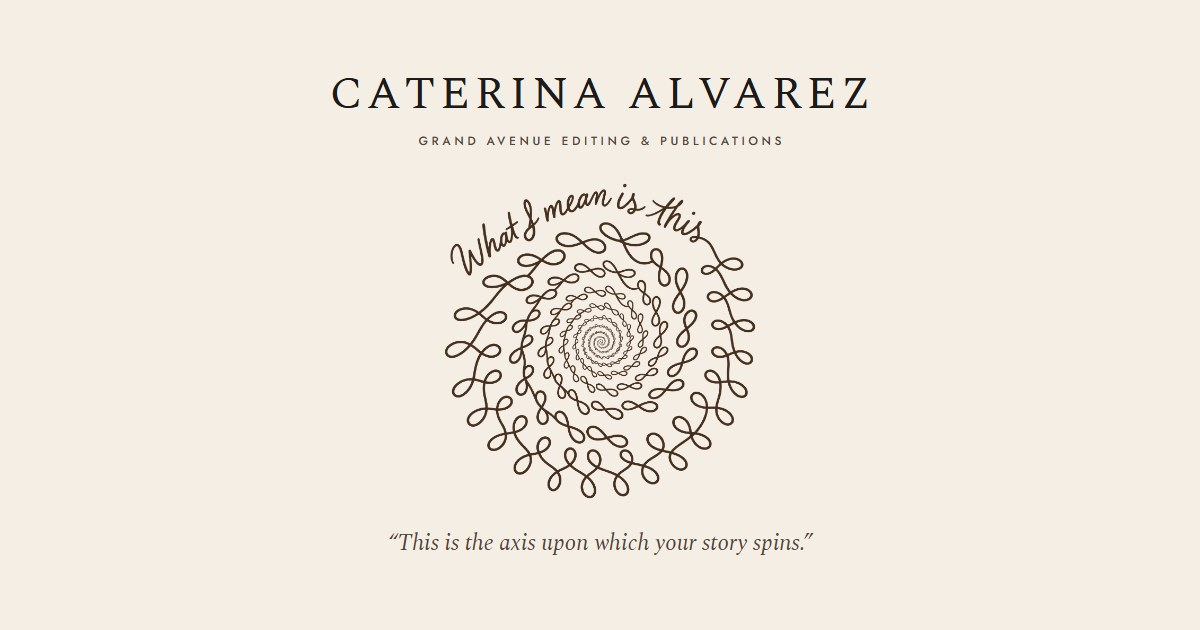
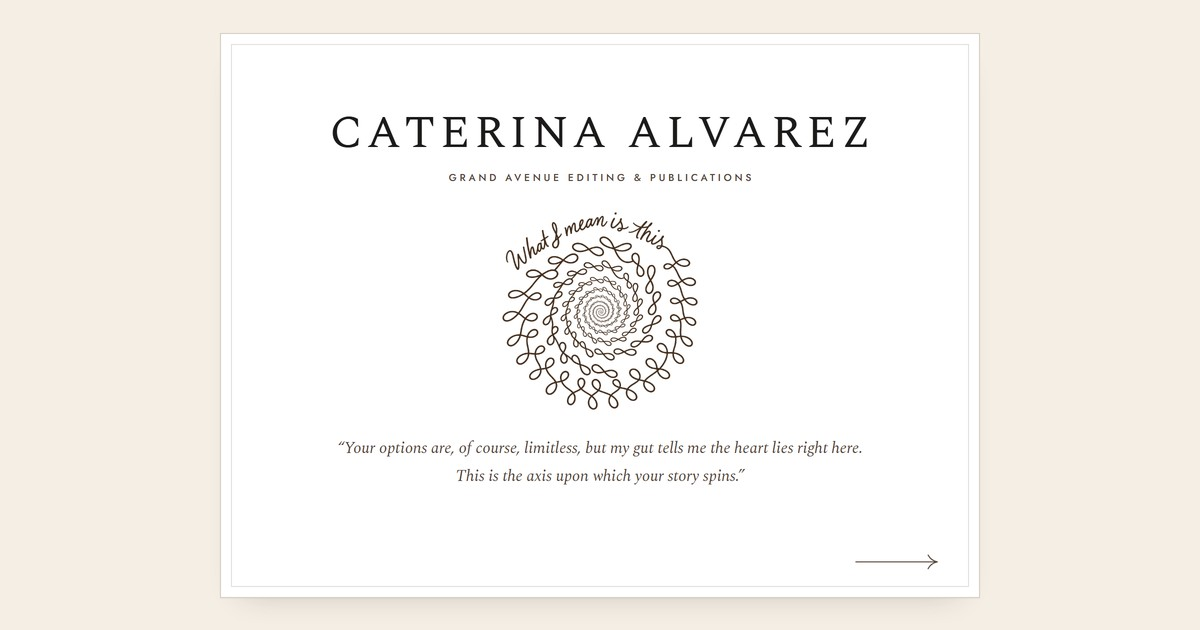
Ready to share: every picture loads at once, and a new link preview
- The link preview (when the address is pasted into a message or email)
  now shows the cover as it is: the white title page on her ivory with
  her name, the imprint, the spiral and her line
- The story pictures on Publications and the books and newsletters on
  About now load with the page instead of waiting to be scrolled to, so
  nothing appears late
- While the cover is open, the Introduction and her portrait are fetched
  quietly in the background, so the first page opens at once

diff --git a/publications.html b/publications.html
@@ -11,10 +11,10 @@
   <meta property="og:title" content="Publications · Caterina Alvarez">
   <meta property="og:description" content="A small collection of my own work, one I hope to quadruple in the coming years.">
   <meta property="og:url" content="https://caterina-alvarez.vercel.app/publications.html">
-  <meta property="og:image" content="https://caterina-alvarez.vercel.app/assets/img/og-image.jpg?v=2">
+  <meta property="og:image" content="https://caterina-alvarez.vercel.app/assets/img/og-image.jpg?v=3">
   <meta property="og:image:width" content="1200">
   <meta property="og:image:height" content="630">
-  <meta property="og:image:alt" content="Caterina Alvarez, Grand Avenue Editing &amp; Publications: her spiral drawing of linked infinity signs, the words “What I mean is this” curving over it, and the line “This is the axis upon which your story spins.”">
+  <meta property="og:image:alt" content="The cover of Caterina Alvarez’s site: a white title page on her ivory with her name, Grand Avenue Editing &amp; Publications, her spiral of linked infinity signs under the words “What I mean is this”, and her line “This is the axis upon which your story spins.”">
   <meta name="twitter:card" content="summary_large_image">
   <meta name="twitter:site" content="@caterina445">
   <meta name="theme-color" content="#fcfbf8">
@@ -111,7 +111,7 @@
       <div class="pub-gallery__track" tabindex="0" role="region" aria-labelledby="index-title" data-gallery-track>
         <ol class="pub-gallery__list">
           <li class="pub-panel pub-panel--ink" id="feature" data-gallery-panel>
-            <figure class="pub-panel__plate"><picture><source srcset="assets/img/pub-flash-boulevard.webp" type="image/webp"><img src="assets/img/pub-flash-boulevard.jpg" width="640" height="335" loading="lazy" decoding="async" alt="Flash Boulevard’s banner: its name in tall white capitals over a misty city street, a man walking away under an umbrella."></picture></figure>
+            <figure class="pub-panel__plate"><picture><source srcset="assets/img/pub-flash-boulevard.webp" type="image/webp"><img src="assets/img/pub-flash-boulevard.jpg" width="640" height="335" decoding="async" alt="Flash Boulevard’s banner: its name in tall white capitals over a misty city street, a man walking away under an umbrella."></picture></figure>
             <p class="pub-panel__honour"><svg class="pub-panel__medal" viewBox="0 0 18 22" aria-hidden="true" focusable="false"><path class="pub-panel__ribbon" d="M2.6 1h4.2l3.6 9.6H7.6zM15.4 1h-4.2l-3.6 9.6h2.8z"/><circle cx="9" cy="15.8" r="5.4"/><path class="pub-panel__star" d="M9.00 13.10L9.71 15.03L11.76 15.10L10.14 16.37L10.70 18.35L9.00 17.20L7.30 18.35L7.86 16.37L6.24 15.10L8.29 15.03Z"/></svg><span class="pub-panel__seal-name">Wigleaf</span> <span class="pub-panel__seal-rank">Top 50</span><span class="visually-hidden">,</span> <span class="pub-panel__seal-year">2023</span></p>
             <p class="pub-panel__journal"><em>Flash Boulevard</em></p>
             <div class="pub-panel__body">
@@ -123,7 +123,7 @@
             </div>
           </li>
           <li class="pub-panel pub-panel--ivory" data-gallery-panel>
-            <figure class="pub-panel__plate"><picture><source srcset="assets/img/pub-los-angeles-review.webp" type="image/webp"><img src="assets/img/pub-los-angeles-review.jpg" width="640" height="335" loading="lazy" decoding="async" alt="The picture The Los Angeles Review ran with the story: “Con gracia pa ti” in bright, many-coloured letters on black."></picture></figure>
+            <figure class="pub-panel__plate"><picture><source srcset="assets/img/pub-los-angeles-review.webp" type="image/webp"><img src="assets/img/pub-los-angeles-review.jpg" width="640" height="335" decoding="async" alt="The picture The Los Angeles Review ran with the story: “Con gracia pa ti” in bright, many-coloured letters on black."></picture></figure>
             <p class="pub-panel__journal"><em>The Los Angeles Review</em></p>
             <div class="pub-panel__body">
               <h3 class="pub-panel__title">“Photo From the Future”</h3>
@@ -134,7 +134,7 @@
             </div>
           </li>
           <li class="pub-panel pub-panel--ivory" data-gallery-panel>
-            <figure class="pub-panel__plate"><picture><source srcset="assets/img/pub-flash-fiction-magazine.webp" type="image/webp"><img src="assets/img/pub-flash-fiction-magazine.jpg" width="640" height="335" loading="lazy" decoding="async" alt="Flash Fiction Magazine’s banner: “Got 5 minutes for a story?” over an open book on a wooden table, gold lights behind."></picture></figure>
+            <figure class="pub-panel__plate"><picture><source srcset="assets/img/pub-flash-fiction-magazine.webp" type="image/webp"><img src="assets/img/pub-flash-fiction-magazine.jpg" width="640" height="335" decoding="async" alt="Flash Fiction Magazine’s banner: “Got 5 minutes for a story?” over an open book on a wooden table, gold lights behind."></picture></figure>
             <p class="pub-panel__journal"><em>Flash Fiction Magazine</em></p>
             <div class="pub-panel__body">
               <h3 class="pub-panel__title">“Underworld Muse”</h3>
@@ -145,7 +145,7 @@
             </div>
           </li>
           <li class="pub-panel pub-panel--ivory" data-gallery-panel>
-            <figure class="pub-panel__plate"><picture><source srcset="assets/img/pub-atticus-review.webp" type="image/webp"><img src="assets/img/pub-atticus-review.jpg" width="640" height="335" loading="lazy" decoding="async" alt="A flute player in sepia, eyes closed, playing in the dark."></picture></figure>
+            <figure class="pub-panel__plate"><picture><source srcset="assets/img/pub-atticus-review.webp" type="image/webp"><img src="assets/img/pub-atticus-review.jpg" width="640" height="335" decoding="async" alt="A flute player in sepia, eyes closed, playing in the dark."></picture></figure>
             <p class="pub-panel__journal"><em>The Atticus Review</em></p>
             <div class="pub-panel__body">
               <h3 class="pub-panel__title pub-panel__title--long">“In Eight Moments You Changed My Understanding”</h3>
@@ -156,7 +156,7 @@
             </div>
           </li>
           <li class="pub-panel pub-panel--ivory" data-gallery-panel>
-            <figure class="pub-panel__plate"><picture><source srcset="assets/img/pub-unpublishable.webp" type="image/webp"><img src="assets/img/pub-unpublishable.jpg" width="640" height="335" loading="lazy" decoding="async" alt="Unpublishable’s logo in typewriter letters, the “UN” in red."></picture></figure>
+            <figure class="pub-panel__plate"><picture><source srcset="assets/img/pub-unpublishable.webp" type="image/webp"><img src="assets/img/pub-unpublishable.jpg" width="640" height="335" decoding="async" alt="Unpublishable’s logo in typewriter letters, the “UN” in red."></picture></figure>
             <p class="pub-panel__journal"><em>Unpublishable</em></p>
             <div class="pub-panel__body">
               <h3 class="pub-panel__title">“Still” and “Veil”</h3>
@@ -167,7 +167,7 @@
             </div>
           </li>
           <li class="pub-panel pub-panel--ivory" data-gallery-panel>
-            <figure class="pub-panel__plate"><picture><source srcset="assets/img/pub-tiny-molecules.webp" type="image/webp"><img src="assets/img/pub-tiny-molecules.jpg" width="640" height="335" loading="lazy" decoding="async" alt="Pine trees on a hillside, fading into mist."></picture></figure>
+            <figure class="pub-panel__plate"><picture><source srcset="assets/img/pub-tiny-molecules.webp" type="image/webp"><img src="assets/img/pub-tiny-molecules.jpg" width="640" height="335" decoding="async" alt="Pine trees on a hillside, fading into mist."></picture></figure>
             <p class="pub-panel__journal"><em>Tiny Molecules</em></p>
             <div class="pub-panel__body">
               <h3 class="pub-panel__title">“Two-Sided Coin”</h3>

diff --git a/about.html b/about.html
@@ -11,10 +11,10 @@
   <meta property="og:title" content="About · Caterina Alvarez">
   <meta property="og:description" content="Senior editor at Thirty West Publishing House and priority editor for Flash Fiction Magazine.">
   <meta property="og:url" content="https://caterina-alvarez.vercel.app/about.html">
-  <meta property="og:image" content="https://caterina-alvarez.vercel.app/assets/img/og-image.jpg?v=2">
+  <meta property="og:image" content="https://caterina-alvarez.vercel.app/assets/img/og-image.jpg?v=3">
   <meta property="og:image:width" content="1200">
   <meta property="og:image:height" content="630">
-  <meta property="og:image:alt" content="Caterina Alvarez, Grand Avenue Editing &amp; Publications: her spiral drawing of linked infinity signs, the words “What I mean is this” curving over it, and the line “This is the axis upon which your story spins.”">
+  <meta property="og:image:alt" content="The cover of Caterina Alvarez’s site: a white title page on her ivory with her name, Grand Avenue Editing &amp; Publications, her spiral of linked infinity signs under the words “What I mean is this”, and her line “This is the axis upon which your story spins.”">
   <meta name="twitter:card" content="summary_large_image">
   <meta name="twitter:site" content="@caterina445">
   <meta name="theme-color" content="#fcfbf8">
@@ -124,7 +124,7 @@
             <div class="reading__volume">
               <picture>
                 <source srcset="assets/img/book-gardner-art-of-fiction.webp" type="image/webp">
-                <img src="assets/img/book-gardner-art-of-fiction.jpg" width="469" height="700" loading="lazy" decoding="async" alt="The cover of The Art of Fiction: Notes on Craft for Young Writers by John Gardner.">
+                <img src="assets/img/book-gardner-art-of-fiction.jpg" width="469" height="700" decoding="async" alt="The cover of The Art of Fiction: Notes on Craft for Young Writers by John Gardner.">
               </picture>
               <span class="reading__ribbon" aria-hidden="true"></span>
             </div>
@@ -135,7 +135,7 @@
             <div class="reading__volume">
               <picture>
                 <source srcset="assets/img/book-livesey-hidden-machinery.webp" type="image/webp">
-                <img src="assets/img/book-livesey-hidden-machinery.jpg" width="467" height="700" loading="lazy" decoding="async" alt="The cover of The Hidden Machinery: Essays on Writing by Margot Livesey.">
+                <img src="assets/img/book-livesey-hidden-machinery.jpg" width="467" height="700" decoding="async" alt="The cover of The Hidden Machinery: Essays on Writing by Margot Livesey.">
               </picture>
               <span class="reading__ribbon" aria-hidden="true"></span>
             </div>
@@ -146,7 +146,7 @@
             <div class="reading__volume">
               <picture>
                 <source srcset="assets/img/book-kardos-art-and-craft-of-fiction.webp" type="image/webp">
-                <img src="assets/img/book-kardos-art-and-craft-of-fiction.jpg" width="597" height="700" loading="lazy" decoding="async" alt="The cover of The Art and Craft of Fiction: A Writer’s Guide by Michael Kardos.">
+                <img src="assets/img/book-kardos-art-and-craft-of-fiction.jpg" width="597" height="700" decoding="async" alt="The cover of The Art and Craft of Fiction: A Writer’s Guide by Michael Kardos.">
               </picture>
               <span class="reading__ribbon" aria-hidden="true"></span>
             </div>
@@ -157,7 +157,7 @@
             <div class="reading__volume">
               <picture>
                 <source srcset="assets/img/book-saunders-swim-in-a-pond-in-the-rain.webp" type="image/webp">
-                <img src="assets/img/book-saunders-swim-in-a-pond-in-the-rain.jpg" width="462" height="700" loading="lazy" decoding="async" alt="The cover of A Swim in a Pond in the Rain by George Saunders.">
+                <img src="assets/img/book-saunders-swim-in-a-pond-in-the-rain.jpg" width="462" height="700" decoding="async" alt="The cover of A Swim in a Pond in the Rain by George Saunders.">
               </picture>
               <span class="reading__ribbon" aria-hidden="true"></span>
             </div>
@@ -168,7 +168,7 @@
             <div class="reading__volume">
               <picture>
                 <source srcset="assets/img/book-booth-rhetoric-of-fiction.webp" type="image/webp">
-                <img src="assets/img/book-booth-rhetoric-of-fiction.jpg" width="474" height="700" loading="lazy" decoding="async" alt="The cover of The Rhetoric of Fiction by Wayne C. Booth.">
+                <img src="assets/img/book-booth-rhetoric-of-fiction.jpg" width="474" height="700" decoding="async" alt="The cover of The Rhetoric of Fiction by Wayne C. Booth.">
               </picture>
               <span class="reading__ribbon" aria-hidden="true"></span>
             </div>
@@ -184,7 +184,7 @@
         <li class="reading__letter">
           <picture class="reading__cover">
             <source srcset="assets/img/newsletter-stunning-sentences.webp" type="image/webp">
-            <img src="assets/img/newsletter-stunning-sentences.jpg" width="288" height="288" loading="lazy" decoding="async" alt="">
+            <img src="assets/img/newsletter-stunning-sentences.jpg" width="288" height="288" decoding="async" alt="">
           </picture>
           <div class="reading__about">
             <p class="reading__via">Substack</p>
@@ -196,7 +196,7 @@
         <li class="reading__letter">
           <picture class="reading__cover">
             <source srcset="assets/img/newsletter-submakk.webp" type="image/webp">
-            <img src="assets/img/newsletter-submakk.jpg" width="288" height="288" loading="lazy" decoding="async" alt="">
+            <img src="assets/img/newsletter-submakk.jpg" width="288" height="288" decoding="async" alt="">
           </picture>
           <div class="reading__about">
             <p class="reading__via">Substack</p>
@@ -208,7 +208,7 @@
         <li class="reading__letter">
           <picture class="reading__cover">
             <source srcset="assets/img/newsletter-craft-talk.webp" type="image/webp">
-            <img src="assets/img/newsletter-craft-talk.jpg" width="288" height="288" loading="lazy" decoding="async" alt="">
+            <img src="assets/img/newsletter-craft-talk.jpg" width="288" height="288" decoding="async" alt="">
           </picture>
           <div class="reading__about">
             <p class="reading__via">Substack</p>

diff --git a/index.html b/index.html
@@ -11,10 +11,10 @@
   <meta property="og:title" content="Caterina Alvarez · Developmental Editing &amp; Publications">
   <meta property="og:description" content="“My gut tells me the heart lies right here. This is the axis upon which your story spins.”">
   <meta property="og:url" content="https://caterina-alvarez.vercel.app/">
-  <meta property="og:image" content="https://caterina-alvarez.vercel.app/assets/img/og-image.jpg?v=2">
+  <meta property="og:image" content="https://caterina-alvarez.vercel.app/assets/img/og-image.jpg?v=3">
   <meta property="og:image:width" content="1200">
   <meta property="og:image:height" content="630">
-  <meta property="og:image:alt" content="Caterina Alvarez, Grand Avenue Editing &amp; Publications: her spiral drawing of linked infinity signs, the words “What I mean is this” curving over it, and the line “This is the axis upon which your story spins.”">
+  <meta property="og:image:alt" content="The cover of Caterina Alvarez’s site: a white title page on her ivory with her name, Grand Avenue Editing &amp; Publications, her spiral of linked infinity signs under the words “What I mean is this”, and her line “This is the axis upon which your story spins.”">
   <meta name="twitter:card" content="summary_large_image">
   <meta name="twitter:site" content="@caterina445">
   <meta name="theme-color" content="#f4eee5">
@@ -23,6 +23,9 @@
   <link rel="manifest" href="site.webmanifest">
   <link rel="preload" href="assets/fonts/spectral-normal-400-latin.woff2" as="font" type="font/woff2" crossorigin>
   <link rel="preload" href="assets/fonts/jost-normal-400-latin.woff2" as="font" type="font/woff2" crossorigin>
+  <!-- the Introduction and her portrait, fetched quietly while the cover is read, so the first page opens at once -->
+  <link rel="prefetch" href="home.html">
+  <link rel="prefetch" href="assets/img/caterina-fagelson@1.5x.webp" as="image" type="image/webp">
   <script>document.documentElement.classList.add('js')</script>
   <link rel="stylesheet" href="assets/css/fonts.css">
   <link rel="stylesheet" href="assets/css/styles.css">

diff --git a/editing.html b/editing.html
@@ -11,10 +11,10 @@
   <meta property="og:title" content="Developmental Editing · Caterina Alvarez">
   <meta property="og:description" content="Authors will receive a detailed editorial letter and inline commentary with a focus on structure, character development, rhythm and pacing, narration, voice, and setting tailored to the story’s strengths and weaknesses.">
   <meta property="og:url" content="https://caterina-alvarez.vercel.app/editing.html">
-  <meta property="og:image" content="https://caterina-alvarez.vercel.app/assets/img/og-image.jpg?v=2">
+  <meta property="og:image" content="https://caterina-alvarez.vercel.app/assets/img/og-image.jpg?v=3">
   <meta property="og:image:width" content="1200">
   <meta property="og:image:height" content="630">
-  <meta property="og:image:alt" content="Caterina Alvarez, Grand Avenue Editing &amp; Publications: her spiral drawing of linked infinity signs, the words “What I mean is this” curving over it, and the line “This is the axis upon which your story spins.”">
+  <meta property="og:image:alt" content="The cover of Caterina Alvarez’s site: a white title page on her ivory with her name, Grand Avenue Editing &amp; Publications, her spiral of linked infinity signs under the words “What I mean is this”, and her line “This is the axis upon which your story spins.”">
   <meta name="twitter:card" content="summary_large_image">
   <meta name="twitter:site" content="@caterina445">
   <meta name="theme-color" content="#fcfbf8">

diff --git a/privacy.html b/privacy.html
@@ -11,10 +11,10 @@
   <meta property="og:title" content="Privacy Policy · Caterina Alvarez">
   <meta property="og:description" content="How information is handled when you visit caterinaalvarez.com or contact Caterina Alvarez, Grand Avenue Editing &amp; Publications.">
   <meta property="og:url" content="https://caterina-alvarez.vercel.app/privacy.html">
-  <meta property="og:image" content="https://caterina-alvarez.vercel.app/assets/img/og-image.jpg?v=2">
+  <meta property="og:image" content="https://caterina-alvarez.vercel.app/assets/img/og-image.jpg?v=3">
   <meta property="og:image:width" content="1200">
   <meta property="og:image:height" content="630">
-  <meta property="og:image:alt" content="Caterina Alvarez, Grand Avenue Editing &amp; Publications: her spiral drawing of linked infinity signs, the words “What I mean is this” curving over it, and the line “This is the axis upon which your story spins.”">
+  <meta property="og:image:alt" content="The cover of Caterina Alvarez’s site: a white title page on her ivory with her name, Grand Avenue Editing &amp; Publications, her spiral of linked infinity signs under the words “What I mean is this”, and her line “This is the axis upon which your story spins.”">
   <meta name="twitter:card" content="summary_large_image">
   <meta name="twitter:site" content="@caterina445">
   <meta name="theme-color" content="#fcfbf8">

diff --git a/accessibility.html b/accessibility.html
@@ -11,10 +11,10 @@
   <meta property="og:title" content="Accessibility · Caterina Alvarez">
   <meta property="og:description" content="Accessibility statement for caterinaalvarez.com, the website of Caterina Alvarez, Grand Avenue Editing &amp; Publications.">
   <meta property="og:url" content="https://caterina-alvarez.vercel.app/accessibility.html">
-  <meta property="og:image" content="https://caterina-alvarez.vercel.app/assets/img/og-image.jpg?v=2">
+  <meta property="og:image" content="https://caterina-alvarez.vercel.app/assets/img/og-image.jpg?v=3">
   <meta property="og:image:width" content="1200">
   <meta property="og:image:height" content="630">
-  <meta property="og:image:alt" content="Caterina Alvarez, Grand Avenue Editing &amp; Publications: her spiral drawing of linked infinity signs, the words “What I mean is this” curving over it, and the line “This is the axis upon which your story spins.”">
+  <meta property="og:image:alt" content="The cover of Caterina Alvarez’s site: a white title page on her ivory with her name, Grand Avenue Editing &amp; Publications, her spiral of linked infinity signs under the words “What I mean is this”, and her line “This is the axis upon which your story spins.”">
   <meta name="twitter:card" content="summary_large_image">
   <meta name="twitter:site" content="@caterina445">
   <meta name="theme-color" content="#fcfbf8">

diff --git a/terms.html b/terms.html
@@ -11,10 +11,10 @@
   <meta property="og:title" content="Terms of Use · Caterina Alvarez">
   <meta property="og:description" content="Terms of use for caterinaalvarez.com, the website of Caterina Alvarez, Grand Avenue Editing &amp; Publications.">
   <meta property="og:url" content="https://caterina-alvarez.vercel.app/terms.html">
-  <meta property="og:image" content="https://caterina-alvarez.vercel.app/assets/img/og-image.jpg?v=2">
+  <meta property="og:image" content="https://caterina-alvarez.vercel.app/assets/img/og-image.jpg?v=3">
   <meta property="og:image:width" content="1200">
   <meta property="og:image:height" content="630">
-  <meta property="og:image:alt" content="Caterina Alvarez, Grand Avenue Editing &amp; Publications: her spiral drawing of linked infinity signs, the words “What I mean is this” curving over it, and the line “This is the axis upon which your story spins.”">
+  <meta property="og:image:alt" content="The cover of Caterina Alvarez’s site: a white title page on her ivory with her name, Grand Avenue Editing &amp; Publications, her spiral of linked infinity signs under the words “What I mean is this”, and her line “This is the axis upon which your story spins.”">
   <meta name="twitter:card" content="summary_large_image">
   <meta name="twitter:site" content="@caterina445">
   <meta name="theme-color" content="#fcfbf8">

diff --git a/home.html b/home.html
@@ -11,10 +11,10 @@
   <meta property="og:title" content="Introduction · Caterina Alvarez">
   <meta property="og:description" content="“My gut tells me the heart lies right here. This is the axis upon which your story spins.”">
   <meta property="og:url" content="https://caterina-alvarez.vercel.app/home.html">
-  <meta property="og:image" content="https://caterina-alvarez.vercel.app/assets/img/og-image.jpg?v=2">
+  <meta property="og:image" content="https://caterina-alvarez.vercel.app/assets/img/og-image.jpg?v=3">
   <meta property="og:image:width" content="1200">
   <meta property="og:image:height" content="630">
-  <meta property="og:image:alt" content="Caterina Alvarez, Grand Avenue Editing &amp; Publications: her spiral drawing of linked infinity signs, the words “What I mean is this” curving over it, and the line “This is the axis upon which your story spins.”">
+  <meta property="og:image:alt" content="The cover of Caterina Alvarez’s site: a white title page on her ivory with her name, Grand Avenue Editing &amp; Publications, her spiral of linked infinity signs under the words “What I mean is this”, and her line “This is the axis upon which your story spins.”">
   <meta name="twitter:card" content="summary_large_image">
   <meta name="twitter:site" content="@caterina445">
   <meta name="theme-color" content="#fcfbf8">

diff --git a/contact.html b/contact.html
@@ -11,10 +11,10 @@
   <meta property="og:title" content="Contact · Caterina Alvarez">
   <meta property="og:description" content="Tell me about your story. The best way to reach me is by email.">
   <meta property="og:url" content="https://caterina-alvarez.vercel.app/contact.html">
-  <meta property="og:image" content="https://caterina-alvarez.vercel.app/assets/img/og-image.jpg?v=2">
+  <meta property="og:image" content="https://caterina-alvarez.vercel.app/assets/img/og-image.jpg?v=3">
   <meta property="og:image:width" content="1200">
   <meta property="og:image:height" content="630">
-  <meta property="og:image:alt" content="Caterina Alvarez, Grand Avenue Editing &amp; Publications: her spiral drawing of linked infinity signs, the words “What I mean is this” curving over it, and the line “This is the axis upon which your story spins.”">
+  <meta property="og:image:alt" content="The cover of Caterina Alvarez’s site: a white title page on her ivory with her name, Grand Avenue Editing &amp; Publications, her spiral of linked infinity signs under the words “What I mean is this”, and her line “This is the axis upon which your story spins.”">
   <meta name="twitter:card" content="summary_large_image">
   <meta name="twitter:site" content="@caterina445">
   <meta name="theme-color" content="#fcfbf8">
